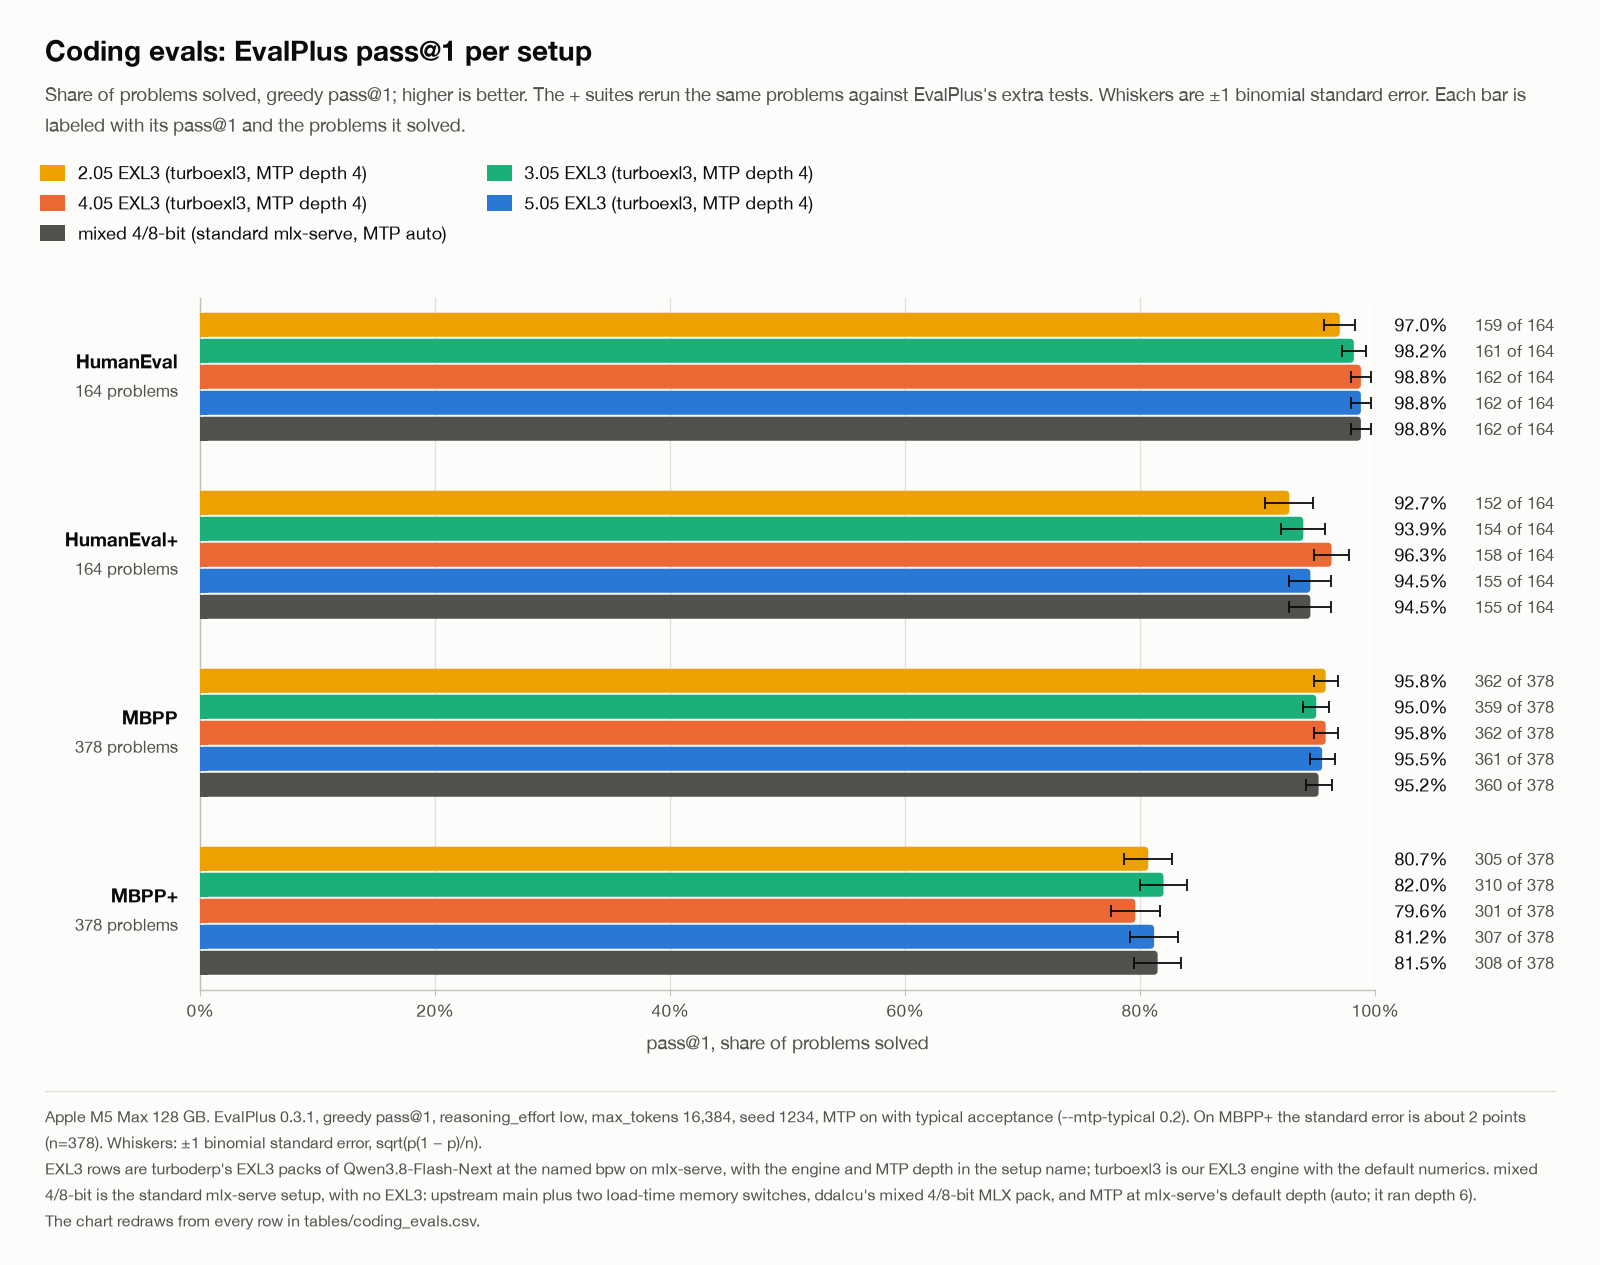
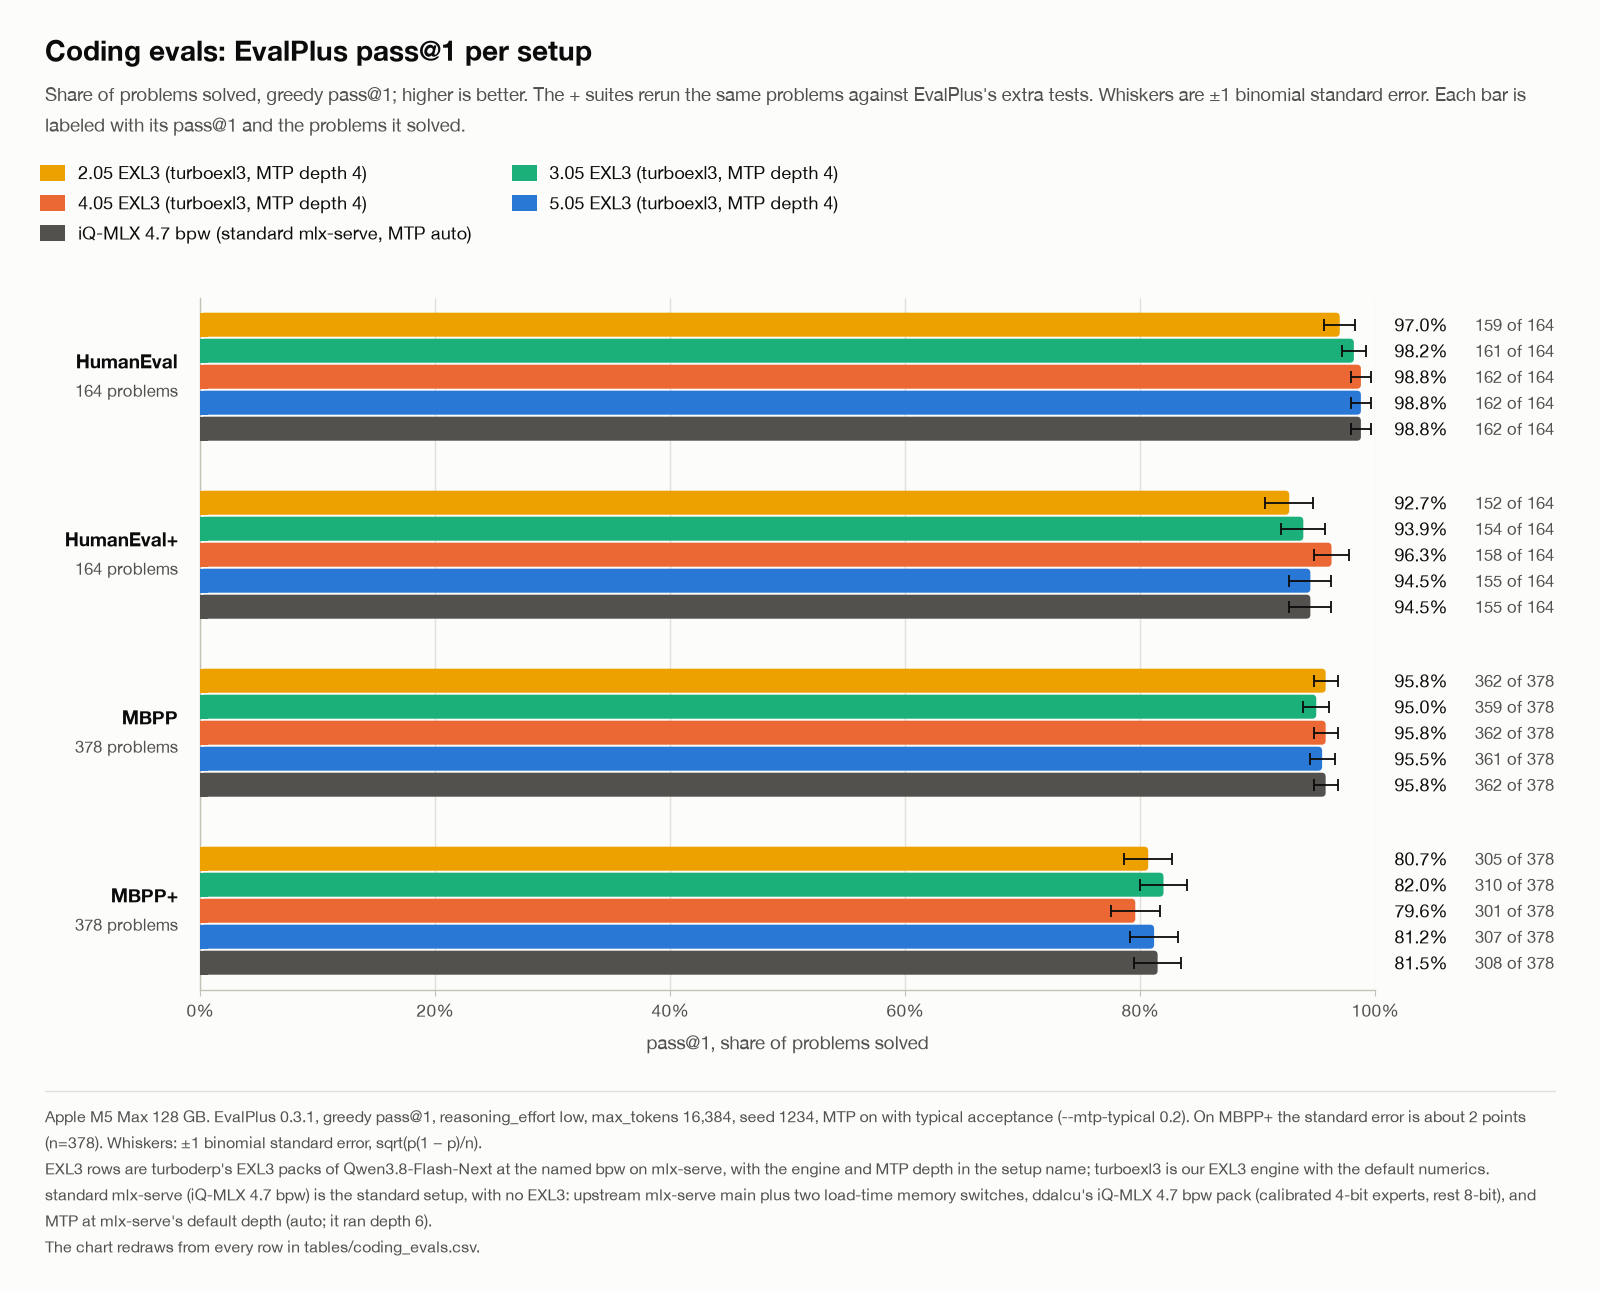
docs: coding evals against the iQ-MLX 4.7 bpw pack
The standard row of both eval tables is now ddalcu's iQ-MLX 4.7 bpw pack (window 2521: EvalPlus 0.3.1, the same
settings as the other rows). The uncalibrated mixed 4/8-bit row stays, marked superseded. The paired comparison is
recomputed against the iQ pack, and the chart is redrawn.

diff --git a/docs/RESULTS.md b/docs/RESULTS.md
@@ -139,12 +139,13 @@ in it still passes the base and the extra tests.
 | 3.05 pack, turboexl3 4a4ea95 as the quant plugin of #997's head, reordered numerics, MTP depth 4 | 0.982 (161) | 0.939 (154) | 0.950 (359) | 0.820 (310) |
 | 4.05 pack, turboexl3 4a4ea95 as the quant plugin of #997's head, reordered numerics, MTP depth 4 | 0.988 (162) | 0.963 (158) | 0.958 (362) | 0.796 (301) |
 | 5.05 pack, turboexl3 4a4ea95 as the quant plugin of #997's head, reordered numerics, MTP depth 4 | 0.988 (162) | 0.945 (155) | 0.955 (361) | 0.812 (307) |
-| mixed 4/8-bit, upstream main + the two load switches, MTP auto | 0.988 (162) | 0.945 (155) | 0.952 (360) | 0.815 (308) |
+| iQ-MLX 4.7 bpw (the standard pack), upstream main + the two load switches, MTP auto | 0.988 (162) | 0.945 (155) | 0.958 (362) | 0.815 (308) |
+| uncalibrated mixed 4/8-bit, superseded by the iQ pack: upstream main + the two load switches, MTP auto | 0.988 (162) | 0.945 (155) | 0.952 (360) | 0.815 (308) |
 
-The four packs are within two points of the standard pack (mixed 4/8-bit) on every suite. The largest gap is the 4.05
+The four packs are within two points of the standard pack (iQ-MLX 4.7 bpw) on every suite. The largest gap is the 4.05
 pack on MBPP+: 301 against 308 problems, 1.9 points. With one greedy run per setup, gaps of this size are within the
-noise: paired by problem against the standard pack, the smallest exact McNemar p-value is 0.17. The 5.05 pack and the
-standard pack are within one problem of each other on every suite. Their HumanEval answers differ (74 of 164 solutions
-identical) but fail nearly the same problems: 8 of the 9 HumanEval+ failures are shared.
+noise: paired by problem against the standard pack, the smallest exact McNemar p-value is 0.14. The 5.05 pack and the
+standard pack are within one problem of each other on every suite. Their HumanEval answers differ (90 of 164 solutions
+identical) but fail mostly the same problems: 7 of the 9 HumanEval+ failures are shared.
 
-![EvalPlus pass@1 on HumanEval, HumanEval+, MBPP and MBPP+ for the 2.05, 3.05, 4.05 and 5.05 packs and the standard mixed 4/8-bit pack](charts/coding_evals.png)
+![EvalPlus pass@1 on HumanEval, HumanEval+, MBPP and MBPP+ for the 2.05, 3.05, 4.05 and 5.05 packs and the standard iQ-MLX 4.7 bpw pack](charts/coding_evals.png)

diff --git a/README.md b/README.md
@@ -79,11 +79,12 @@ EvalPlus 0.3.1 through mlx-serve on an M5 Max, the packs with turboexl3: greedy 
 | 3.05 bpw | 0.982 (161) | 0.939 (154) | 0.950 (359) | 0.820 (310) |
 | 4.05 bpw | 0.988 (162) | 0.963 (158) | 0.958 (362) | 0.796 (301) |
 | 5.05 bpw | 0.988 (162) | 0.945 (155) | 0.955 (361) | 0.812 (307) |
-| mixed 4/8-bit, standard mlx-serve (no EXL3) | 0.988 (162) | 0.945 (155) | 0.952 (360) | 0.815 (308) |
+| iQ-MLX 4.7 bpw, standard mlx-serve (no EXL3) | 0.988 (162) | 0.945 (155) | 0.958 (362) | 0.815 (308) |
+| uncalibrated mixed 4/8-bit, superseded by the iQ pack | 0.988 (162) | 0.945 (155) | 0.952 (360) | 0.815 (308) |
 
 Every pack is within two points of the standard pack on every suite.
 
-![EvalPlus pass@1 on HumanEval, HumanEval+, MBPP and MBPP+ for the four packs and the standard mixed 4/8-bit pack](docs/charts/coding_evals.png)
+![EvalPlus pass@1 on HumanEval, HumanEval+, MBPP and MBPP+ for the four packs and the standard iQ-MLX 4.7 bpw pack](docs/charts/coding_evals.png)
 
 The setups and the method in full: [docs/RESULTS.md](docs/RESULTS.md#coding-evals).
 
